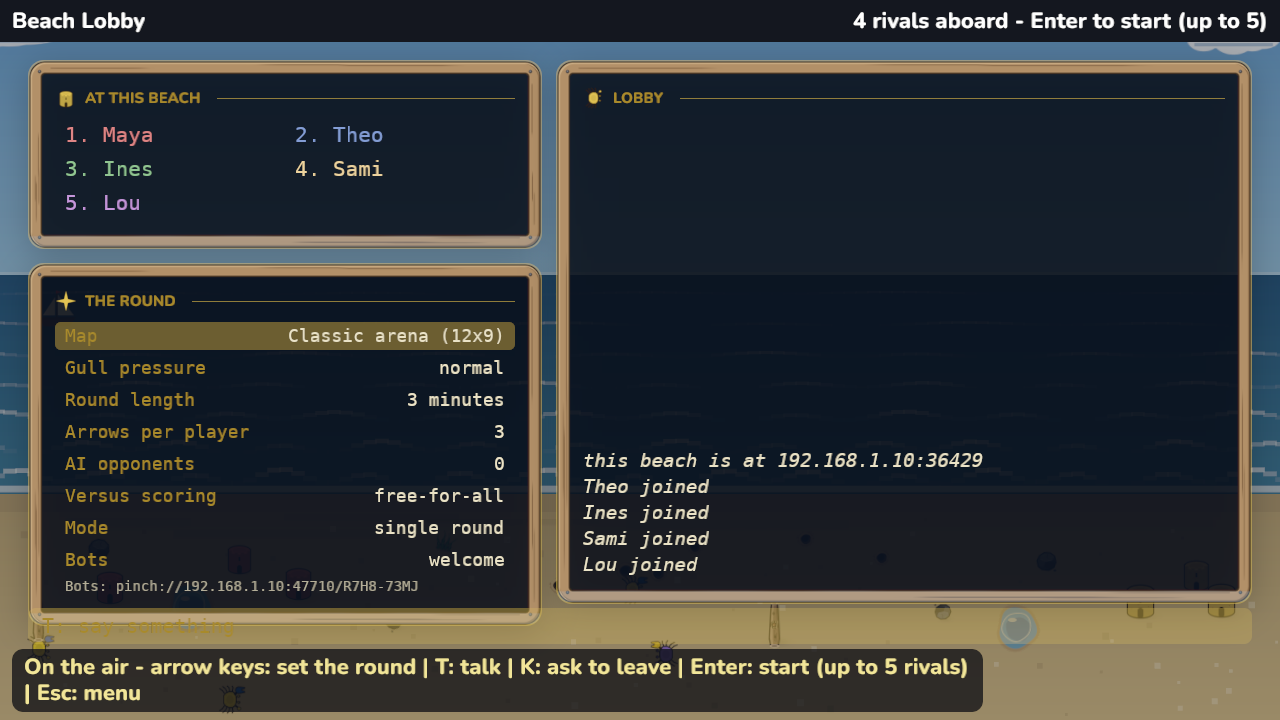
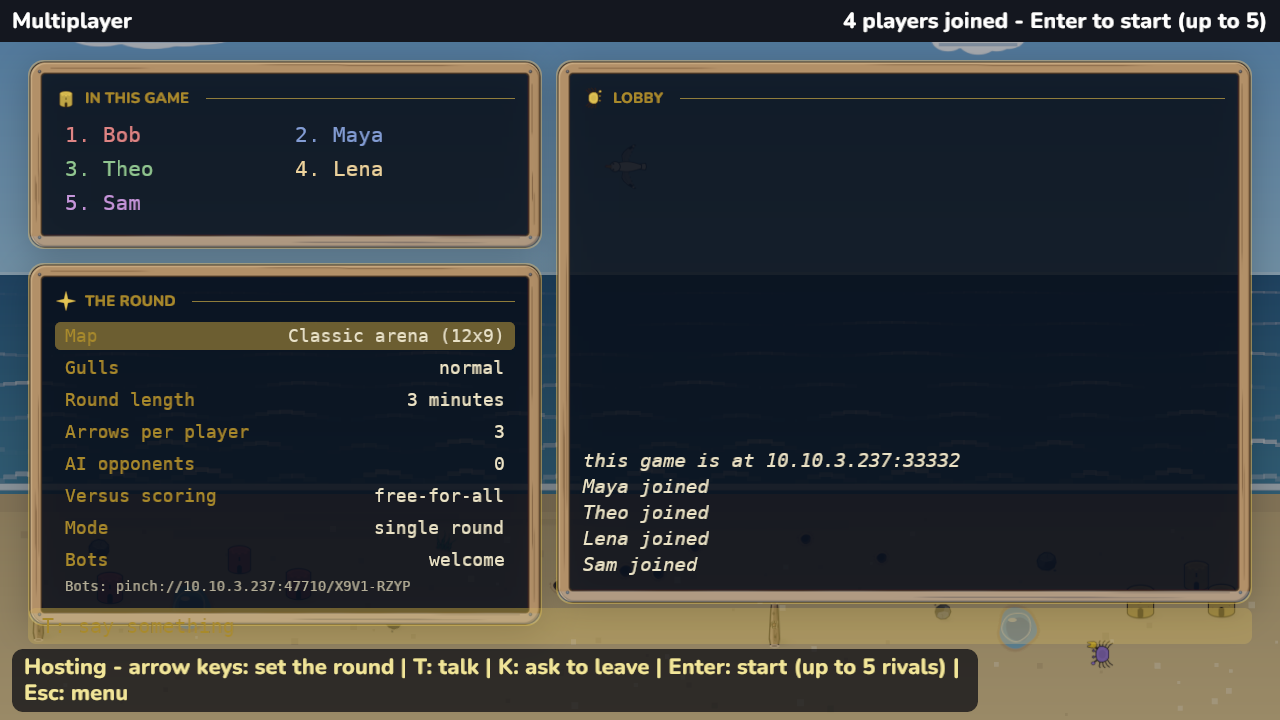
Retake the landing page and README pictures with the plain names
The page said "Host a beach", "Bank a molting crab", "AI to fill the
empty seats" and "before the tide comes in", and its pictures showed the
old menu ("Tide Pool", "Turf War", "Beach Lobby"), "BEACHES ON THE AIR"
and "TURF WAR vs 3 AI". The text now says game, score, players and
"before time runs out" (the link card and the crate description too),
and the six screenshots are retaken from master by the v0.7.0 recipe: a
copy of the real data dir, English, autopiloted rounds against three AI,
P2's lure at 50 s, and the lobby as a host with four friends in five
real processes. media.sh made the WebPs and card.sh the link card.

The hero video is not retaken here and still shows the old round title.

diff --git a/site/index.html b/site/index.html
@@ -4,9 +4,9 @@
 <meta charset="utf-8">
 <meta name="viewport" content="width=device-width, initial-scale=1">
 <title>Pinch Points: a crab-routing video game</title>
-<meta name="description" content="A crab-routing video game for 1 to 6 players. Place arrows in the sand and steer streams of crabs into your castle before the tide comes in.">
+<meta name="description" content="A crab-routing video game for 1 to 6 players. Place arrows in the sand and steer streams of crabs into your castle before time runs out.">
 <meta property="og:title" content="Pinch Points: a crab-routing video game">
-<meta property="og:description" content="A crab-routing video game for 1 to 6 players. Place arrows in the sand and steer streams of crabs into your castle before the tide comes in.">
+<meta property="og:description" content="A crab-routing video game for 1 to 6 players. Place arrows in the sand and steer streams of crabs into your castle before time runs out.">
 <meta property="og:type" content="website">
 <meta property="og:url" content="https://agourlay.github.io/pinch-points/">
 <meta property="og:site_name" content="Pinch Points">
@@ -33,7 +33,7 @@
   <h1>🦀 Pinch Points 🦀
     <span class="genre">a crab-routing video game</span></h1>
   <p class="lede">Place arrows in the sand and steer streams of crabs into
-    your castle before the tide comes in. One to six players, on the couch
+    your castle before time runs out. One to six players, on the couch
     or over the wire.</p>
   <!-- Without script both commands show, each under its own label; with
        it, the labels become tabs and the visitor's own system is picked. -->
@@ -107,7 +107,7 @@
     <li><b>Campaign</b> 100 solo puzzles</li>
     <li><b>Versus</b> 2-6 on one couch</li>
     <li><b>Multiplayer</b> 6 over LAN</li>
-    <li><b>Level Editor</b> level editor</li>
+    <li><b>Level Editor</b> build and share</li>
     <li><b>Challenges</b> score attack</li>
     <li><b>Daily Challenge</b> same for everyone</li>
     <li><b>Replays</b> shareable as text</li>
@@ -118,13 +118,13 @@
 
 <section class="together">
   <img src="media/lobby.webp" width="1280" height="720" loading="lazy"
-       alt="The multiplayer lobby: five friends at one beach, the round's settings, and the lobby chat">
+       alt="The multiplayer lobby: five friends in one game, the round's settings, and the lobby chat">
   <div>
     <h2>Bring your friends</h2>
-    <p>Host a beach and it shows up on every machine on the same network.
-    Nobody types an address and nobody makes an account: pick the beach,
+    <p>Host a game and it shows up on every machine on the same network.
+    Nobody types an address and nobody makes an account: pick the game,
     press Enter, you are in.</p>
-    <p>Up to six players, AI to fill the empty seats, a chat while you wait,
+    <p>Up to six players, AI to fill in for missing players, a chat while you wait,
     and room for anyone else to watch.</p>
   </div>
 </section>
@@ -142,7 +142,7 @@ Waiting for 1 bot. Start it with:
     over TCP, reads the board each tick and answers with a move. The game
     never runs anyone's code.</p>
     <p>Play it against the game's AI, run a cup between friends' bots, or
-    seat it beside you on the couch or in a LAN party.</p>
+    play it beside you on the couch or at a LAN party.</p>
     <p class="links">
       <a href="https://github.com/agourlay/pinch-points/blob/master/bots/python/greedy.py">A whole bot to start from</a>
       (one file of plain Python) ·
@@ -155,7 +155,7 @@ Waiting for 1 bot. Start it with:
   <figure>
     <img src="media/lure.webp" width="1280" height="720" loading="lazy"
          alt="Every loose crab on the beach taking one player's colour and running for their castle">
-    <figcaption>Bank a molting crab and the whole beach runs to you for ten seconds.</figcaption>
+    <figcaption>Score a molting crab and every loose crab runs to you for ten seconds.</figcaption>
   </figure>
   <figure>
     <img src="media/old_mill.webp" width="1280" height="720" loading="lazy"

diff --git a/site/card/card.html b/site/card/card.html
@@ -92,7 +92,7 @@
     <div class="crab">🦀</div>
     <h1>Pinch Points</h1>
     <p class="genre">a crab-routing video game</p>
-    <p class="pitch">Steer streams of crabs into your castle before the tide comes in.</p>
+    <p class="pitch">Steer streams of crabs into your castle before time runs out.</p>
     <div class="chips">
       <span>1 to 6 players</span>
       <span>couch or LAN</span>
